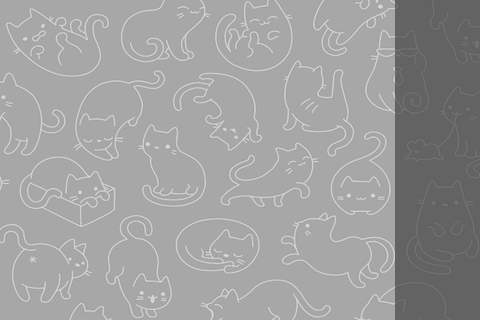
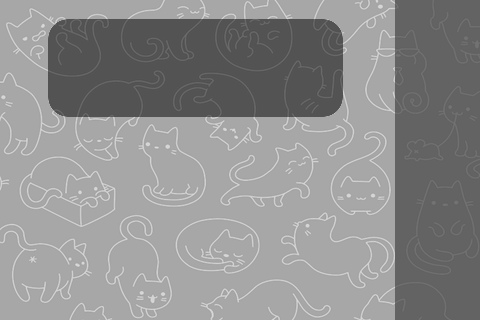
time inc/dec working

Changed region(s): [[0.0938, 0.0625, 0.7188, 0.375]]

diff --git a/settings_display.py b/settings_display.py
@@ -37,14 +37,14 @@ class SettingsDisplay:
         self.off = Icon('data/img/off.png', x=405, y=240, b=self.batchUI)
         self.on = Icon('data/img/on.png', x=405, y=240, b=self.batchUI, visible=False)
 
-        self.hour = 1
-        self.minute = "00"
-        self.hourText = pyglet.text.Label(str(self.hour), font_name='Cat Font',
-            font_size=85, x=50, y=209, color=(200, 0, 100, 255), width=120, multiline=True, align='right')
+        self.hour = {'time':1, 'pressed':False}
+        self.min = {'time':0, 'pressed':False}
+        self.hourText = None
+        self.minText = None
+        self.setHourText(color=(255, 255, 255, 255))
+        self.setMinText(color=(255, 255, 255, 255))
         self.colon = pyglet.text.Label(':', font_name='Cat Font',
-            font_size=85, x=50+115, y=209, color=(200, 0, 100, 255))
-        self.minText = pyglet.text.Label(str(self.minute), font_name='Cat Font',
-            font_size=85, x=55+140, y=209, color=(200, 0, 100, 255))
+            font_size=85, x=165, y=215, color=(255, 255, 255, 255))
 
         def off_func():
             self.bg = self.bgOn
@@ -61,30 +61,45 @@ class SettingsDisplay:
             pyglet.clock.schedule_once(f, 0.21)
 
         def inc_func():
-            if self.hour == 12:
-                self.hour = 1
-            else:
-                self.hour += 1
-            self.hourText = pyglet.text.Label(str(self.hour), font_name='Cat Font',
-                font_size=85, x=50, y=209, color=(200, 0, 100, 255), width=120, multiline=True, align='right')
+            if self.hour['pressed']:
+                t = self.hour['time']
+                if t == 12:
+                    t = 1
+                else:
+                    t += 1
+                self.hour['time'] = t
+                self.setHourText()
+            elif self.min['pressed']:
+                t = self.min['time']
+                if t == 50:
+                    t = 0
+                else:
+                    t += 10
+                self.min['time'] = t
+                self.setMinText()
 
         def dec_func():
-            if self.hour == 1:
-                self.hour = 12
-            else:
-                self.hour -= 1
-            self.hourText = pyglet.text.Label(str(self.hour), font_name='Cat Font',
-                font_size=85, x=50, y=209, color=(200, 0, 100, 255), width=120, multiline=True, align='right')
+            if self.hour['pressed']:
+                t = self.hour['time']
+                if t == 1:
+                    t = 12
+                else:
+                    t -= 1
+                self.hour['time'] = t
+                self.setHourText()
+            elif self.min['pressed']:
+                t = self.min['time']
+                if t == 0:
+                    t = 50
+                else:
+                    t -= 10
+                self.min['time'] = t
+                self.setMinText()
 
         def done_func():
             return True
 
-        self.icons = {self.off:off_func, self.on:on_func, self.inc:inc_func, self.dec:dec_func, self.done:done_func} # only include visible icons
-
-    def unscheduleFuncs(dt):
-        pass
-    def scheduleFuncs(dt):
-        pass
+        self.icons = {self.off:off_func, self.on:on_func, self.inc:inc_func, self.dec:dec_func, self.done:done_func}
 
     def isPressed(self, icon, x, y):
         x2 = icon.x
@@ -96,10 +111,31 @@ class SettingsDisplay:
         return False
 
     def press(self, x, y):
-        for i in self.icons:
-            if i.visible and self.isPressed(i, x, y):
-                i.act()
-                return self.icons[i]()
+        if x > 390:
+            for i in self.icons:
+                if i.visible and self.isPressed(i, x, y):
+                    i.act()
+                    return self.icons[i]()
+        else:
+            if self.isPressed(self.hourText, x, y):
+                self.setMinText(color=(255, 255, 255, 255))
+                self.setHourText()
+                self.min['pressed'] = False
+                self.hour['pressed'] = True
+            elif self.isPressed(self.minText, x, y):
+                self.setHourText(color=(255, 255, 255, 255))
+                self.setMinText()
+                self.hour['pressed'] = False
+                self.min['pressed'] = True
+
+    def setHourText(self, color=(200, 0, 100, 255)):
+        self.hourText = pyglet.text.Label(str(self.hour['time']), font_name='Cat Font',
+            font_size=85, x=50, y=209, color=color, width=120, height=100,
+            multiline=True, align='right')
+
+    def setMinText(self, color=(200, 0, 100, 255)):
+        self.minText = pyglet.text.Label("{:02}".format(self.min['time']), font_name='Cat Font',
+            font_size=85, x=195, y=211, color=color, width=130, height=100)
 
     def draw(self):
         glEnable(GL_BLEND)

diff --git a/main.py b/main.py
@@ -9,7 +9,7 @@ import window_manager
 
 #window = pyglet.window.Window(fullscreen=True)
 window = pyglet.window.Window(480, 320)
-window.set_mouse_visible(False)
+#window.set_mouse_visible(False)
 pyglet.font.add_file('data/cat.ttf')
 pyglet.font.load('Cat Font')
 
